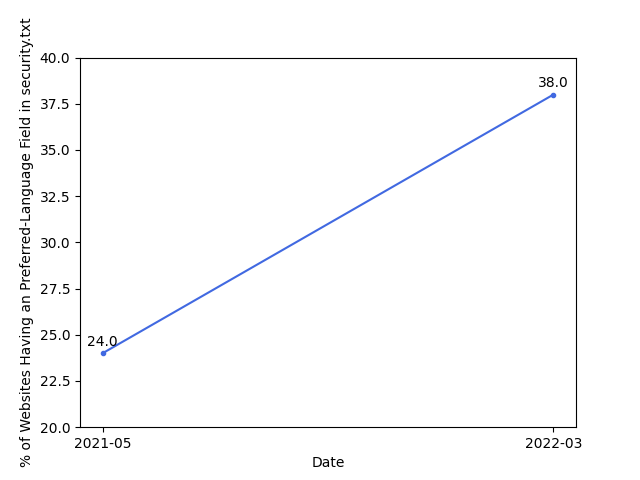
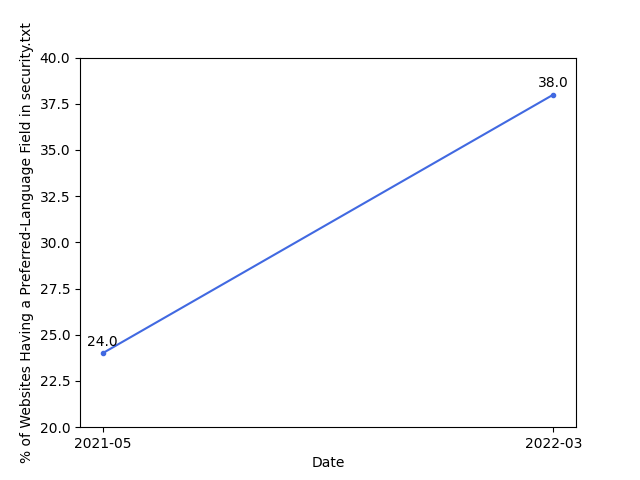
update images

Changed region(s): [[0.0312, 0.0312, 0.0625, 0.9688]]

diff --git a/plots.py b/plots.py
@@ -43,7 +43,7 @@ def plot_url_path():
     y3 = list(combined[2])
     fig = plt.figure()
     ax = fig.add_subplot(111)
-    plt.plot(x, y1, color="royalblue", marker=".", label=".well-known Only")
+    plt.plot(x, y1, color="royalblue", marker=".", label="/.well-known/ Only")
     for i, v in enumerate(y1):
         ax.text(i, v + 0.4, "%.1f" % v, ha="center")
     plt.plot(x, y2, color="darkorange", marker="^", label="Root Only")
@@ -88,56 +88,6 @@ def plot_protocol():
     plt.show()
 
 
-def plot_contact_and_openbugbounty_use():
-    old_results = [6.4, 5.6, 1, 87]
-    new_results = [6.6, 7.7, 1.3, 84.4]
-    x = [0, 1]
-    xticks = ["2021-05", "2022-03"]
-    combined = list(zip(old_results, new_results))
-    y1 = list(combined[0])
-    y2 = list(combined[1])
-    y3 = list(combined[2])
-    y4 = list(combined[3])
-    fig = plt.figure()
-    ax = fig.add_subplot(111)
-    plt.plot(x, y1, color="royalblue", marker=".", label="OpenBugBounty Only")
-    plt.plot(x, y2, color="darkorange", marker="^", label="OpenBugBounty and Contact")
-    plt.plot(x, y3, color="g", marker="*", label="No Structured Contact")
-    plt.plot(x, y4, color="r", marker="d", label="Contact Only")
-    for i, v in enumerate(y4):
-        ax.text(i, v + 0.4, "%.1f" % v, ha="center")
-    plt.xticks(x, xticks)
-    plt.xlabel("Date")
-    plt.ylabel("% of Websites Having a Form of Contact in security.txt")
-    plt.legend()
-    plt.show()
-
-
-def plot_contact_categories():
-    old_results = [49, 49, 8, 1]
-    new_results = [87, 32, 20, 0.7]
-    x = [0, 1]
-    xticks = ["2021-05", "2022-03"]
-    combined = list(zip(old_results, new_results))
-    y1 = list(combined[0])
-    y2 = list(combined[1])
-    y3 = list(combined[2])
-    y4 = list(combined[3])
-    fig = plt.figure()
-    ax = fig.add_subplot(111)
-    plt.plot(x, y1, color="royalblue", marker=".", label="Emails")
-    for i, v in enumerate(y1):
-        ax.text(i, v + 0.4, "%.1f" % v, ha="center")
-    plt.plot(x, y2, color="darkorange", marker="^", label="URLs")
-    plt.plot(x, y3, color="g", marker="*", label="Email and URL")
-    plt.plot(x, y4, color="r", marker="d", label="Telephone Number")
-    plt.xticks(x, xticks)
-    plt.xlabel("Date")
-    plt.ylabel("% of Websites Having a Specific Type of Contact Field in security.txt")
-    plt.legend()
-    plt.show()
-
-
 def plot_expires_use():
     old_results = [1.7]
     new_results = [21]
@@ -157,6 +107,64 @@ def plot_expires_use():
     plt.show()
 
 
+def plot_encryption_use():
+    old_results = [21, 2.5]
+    new_results = [39, 14]
+    x = [0, 1]
+    xticks = ["2021-05", "2022-03"]
+    combined = list(zip(old_results, new_results))
+    y1 = list(combined[0])
+    y2 = list(combined[1])
+    fig = plt.figure()
+    ax = fig.add_subplot(111)
+    plt.plot(x, y1, color="royalblue", marker=".", label="Has an Encryption Field")
+    for i, v in enumerate(y1):
+        ax.text(i, v + 0.4, "%.1f" % v, ha="center")
+    plt.plot(
+        x,
+        y2,
+        color="darkorange",
+        marker="^",
+        label="Sign the File with an OpenPGP signature",
+    )
+    for i, v in enumerate(y2):
+        ax.text(i, v + 0.4, "%.1f" % v, ha="center")
+
+    plt.xticks(x, xticks)
+    plt.xlabel("Date")
+    plt.ylabel("% of Websites Using Encryption and Signatures")
+    plt.legend()
+    plt.show()
+
+
+def plot_encryption_values():
+    old_results = [91, 4, 0]
+    new_results = [97, 2, 0.1]
+    x = [0, 1]
+    xticks = ["2021-05", "2022-03"]
+    combined = list(zip(old_results, new_results))
+    y1 = list(combined[0])
+    y2 = list(combined[1])
+    y3 = list(combined[2])
+    fig = plt.figure()
+    ax = fig.add_subplot(111)
+    plt.plot(x, y1, color="royalblue", marker=".", label="Web URI")
+    for i, v in enumerate(y1):
+        ax.text(i, v + 0.4, "%.1f" % v, ha="center")
+    plt.plot(x, y2, color="darkorange", marker="^", label="OpenPGP Fingerprint")
+    for i, v in enumerate(y2):
+        ax.text(i, v + 1.0, "%.1f" % v, ha="center")
+    plt.plot(x, y3, color="g", marker="*", label="OPENPGPKEY DNS record")
+    for i, v in enumerate(y3):
+        ax.text(i, v - 1.0, "%.1f" % v, ha="center")
+
+    plt.xticks(x, xticks)
+    plt.xlabel("Date")
+    plt.ylabel("% of Websites Using A Form of Encryption Key")
+    plt.legend()
+    plt.show()
+
+
 def plot_preferred_languages_use():
     old_results = [24]
     new_results = [38]
@@ -171,8 +179,83 @@ def plot_preferred_languages_use():
         ax.text(i, v + 0.4, "%.1f" % v, ha="center")
     plt.xticks(x, xticks)
     plt.xlabel("Date")
-    plt.ylabel("% of Websites Having an Preferred-Language Field in security.txt")
+    plt.ylabel("% of Websites Having a Preferred-Language Field in security.txt")
     plt.ylim([20, 40])
+    plt.show()
+
+
+def plot_policy_use():
+    old_results = [50]
+    new_results = [44]
+    x = [0, 1]
+    xticks = ["2021-05", "2022-03"]
+    combined = list(zip(old_results, new_results))
+    y1 = list(combined[0])
+    fig = plt.figure()
+    ax = fig.add_subplot(111)
+    plt.plot(x, y1, color="royalblue", marker=".")
+    for i, v in enumerate(y1):
+        ax.text(i, v + 0.4, "%.1f" % v, ha="center")
+    plt.xticks(x, xticks)
+    plt.xlabel("Date")
+    plt.ylabel("% of Websites Having a Policy Field in security.txt")
+    plt.ylim([40, 55])
+    plt.show()
+
+
+def plot_hiring_use():
+    old_results = [25]
+    new_results = [34]
+    x = [0, 1]
+    xticks = ["2021-05", "2022-03"]
+    combined = list(zip(old_results, new_results))
+    y1 = list(combined[0])
+    fig = plt.figure()
+    ax = fig.add_subplot(111)
+    plt.plot(x, y1, color="royalblue", marker=".")
+    for i, v in enumerate(y1):
+        ax.text(i, v + 0.4, "%.1f" % v, ha="center")
+    plt.xticks(x, xticks)
+    plt.xlabel("Date")
+    plt.ylabel("% of Websites Having a Hiring Field in security.txt")
+    plt.ylim([20, 35])
+    plt.show()
+
+
+def plot_acknowledgments_use():
+    old_results = [9]
+    new_results = [31]
+    x = [0, 1]
+    xticks = ["2021-05", "2022-03"]
+    combined = list(zip(old_results, new_results))
+    y1 = list(combined[0])
+    fig = plt.figure()
+    ax = fig.add_subplot(111)
+    plt.plot(x, y1, color="royalblue", marker=".")
+    for i, v in enumerate(y1):
+        ax.text(i, v + 0.4, "%.1f" % v, ha="center")
+    plt.xticks(x, xticks)
+    plt.xlabel("Date")
+    plt.ylabel("% of Websites Having a Acknowledgments Field in security.txt")
+    plt.show()
+
+
+def plot_canonical_use():
+    old_results = [16]
+    new_results = [20]
+    x = [0, 1]
+    xticks = ["2021-05", "2022-03"]
+    combined = list(zip(old_results, new_results))
+    y1 = list(combined[0])
+    fig = plt.figure()
+    ax = fig.add_subplot(111)
+    plt.plot(x, y1, color="royalblue", marker=".")
+    for i, v in enumerate(y1):
+        ax.text(i, v + 0.2, "%.1f" % v, ha="center")
+    plt.xticks(x, xticks)
+    plt.xlabel("Date")
+    plt.ylabel("% of Websites Having a Canonical Field in security.txt")
+    plt.ylim([15, 21])
     plt.show()
 
 
@@ -180,8 +263,11 @@ if __name__ == "__main__":
     plot_deployment_levels()
     plot_url_path()
     plot_protocol()
-    plot_contact_and_openbugbounty_use()
-    plot_contact_categories()
     plot_expires_use()
-    plot_expires_values()
+    plot_encryption_use()
+    plot_encryption_values()
     plot_preferred_languages_use()
+    plot_policy_use()
+    plot_hiring_use()
+    plot_acknowledgments_use()
+    plot_canonical_use()

diff --git a/queries.py b/queries.py
@@ -421,7 +421,9 @@ def query_encryption_use(args):
     cur.execute("SELECT COUNT(*) FROM files WHERE encryption != '';")
     encryption = cur.fetchone()[0]
 
-    cur.execute("SELECT COUNT(*) FROM files WHERE other LIKE '%signature%';")
+    cur.execute(
+        "SELECT COUNT(*) FROM files WHERE other LIKE '%signature%' or encryption LIKE '%public key block%';"
+    )
     signature = cur.fetchone()[0]
 
     print(
@@ -450,8 +452,13 @@ def query_encryption_values(args):
     cur.execute("SELECT COUNT(*) FROM files WHERE encryption != '';")
     encryption = cur.fetchone()[0]
 
-    cur.execute("SELECT COUNT(*) FROM files WHERE encryption LIKE '%https://%';")
+    cur.execute("SELECT COUNT(*) FROM files WHERE encryption LIKE '%http%';")
     urls = cur.fetchone()[0]
+
+    cur.execute(
+        "SELECT COUNT(*) FROM files WHERE encryption LIKE '%http%' AND encryption not like '%https%';"
+    )
+    http_urls = cur.fetchone()[0]
 
     cur.execute("SELECT COUNT(*) FROM files WHERE encryption LIKE '%openpgp4fpr%';")
     openpgp4fpr = cur.fetchone()[0]
@@ -472,6 +479,17 @@ def query_encryption_values(args):
     )
 
     print("{} domains that have a Encryption field use DNS records.\n".format(dns))
+    print(
+        "{}% of domains that have a Encryption field use DNS records.\n".format(
+            dns / encryption * 100
+        )
+    )
+
+    print(
+        "{}% of domains that have a Encryption field use http URLs.\n".format(
+            http_urls / encryption * 100
+        )
+    )
     cur.close()
     conn.close()
 
